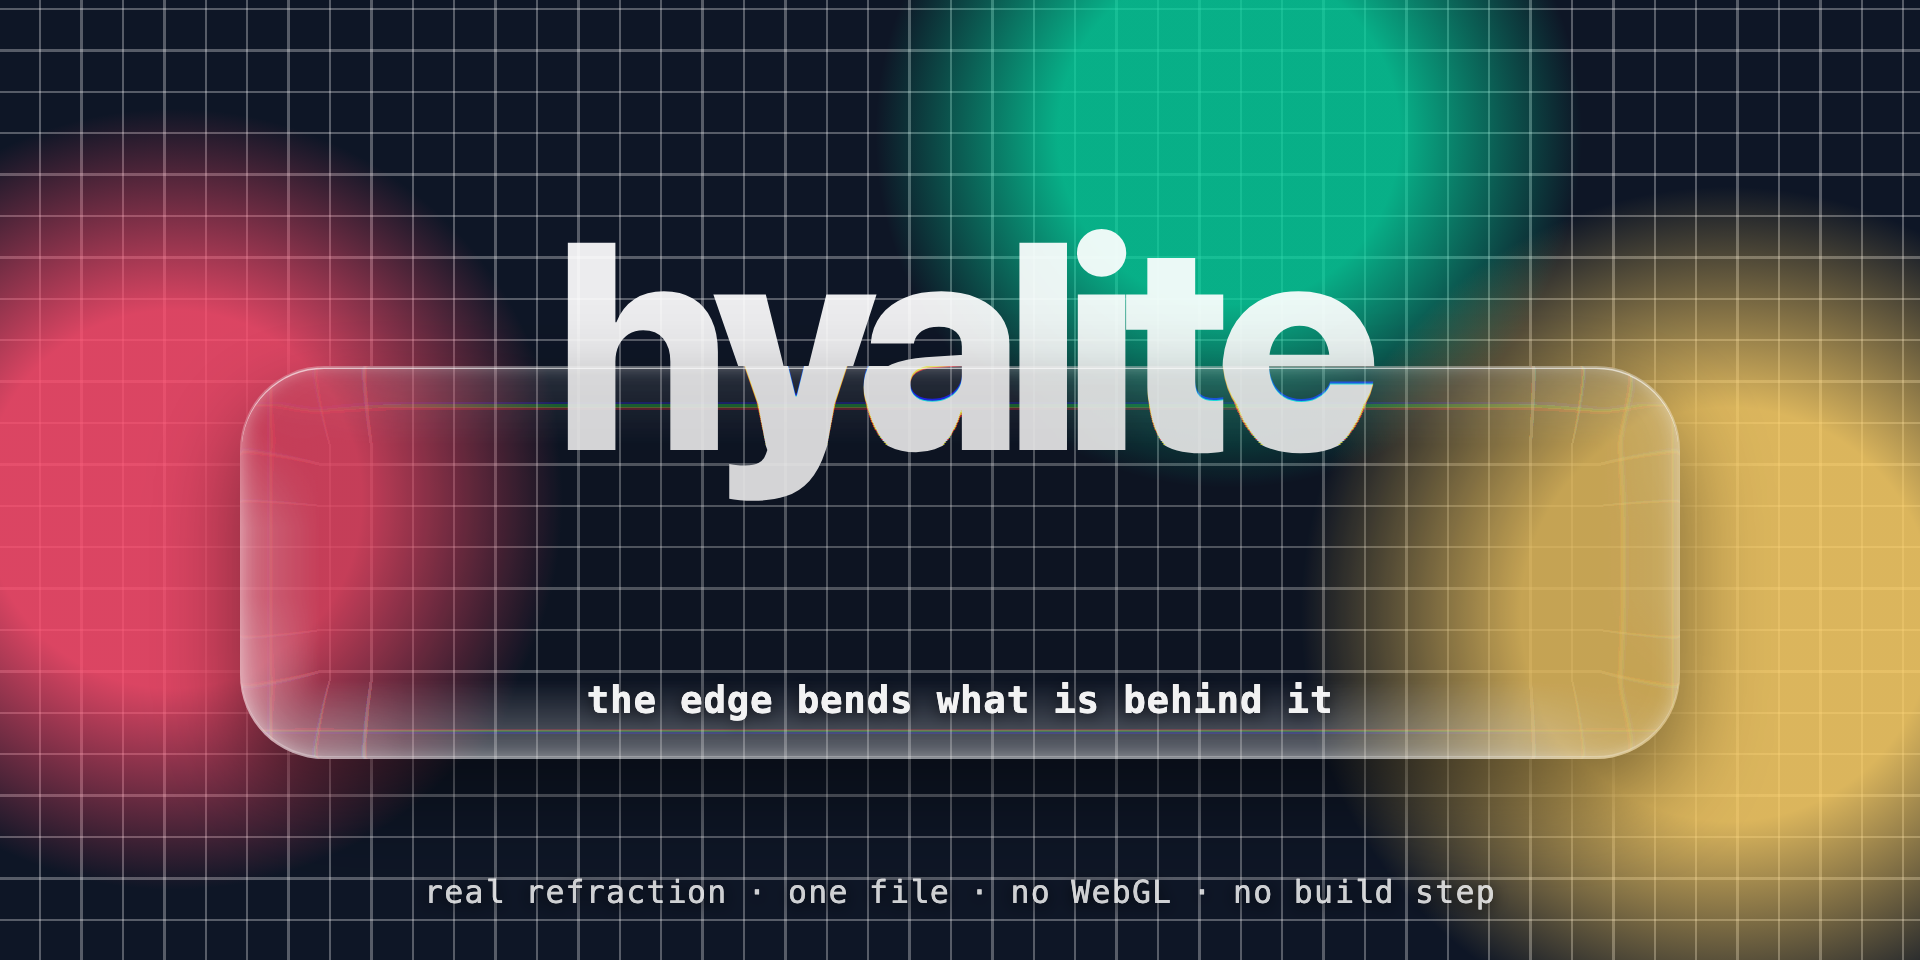
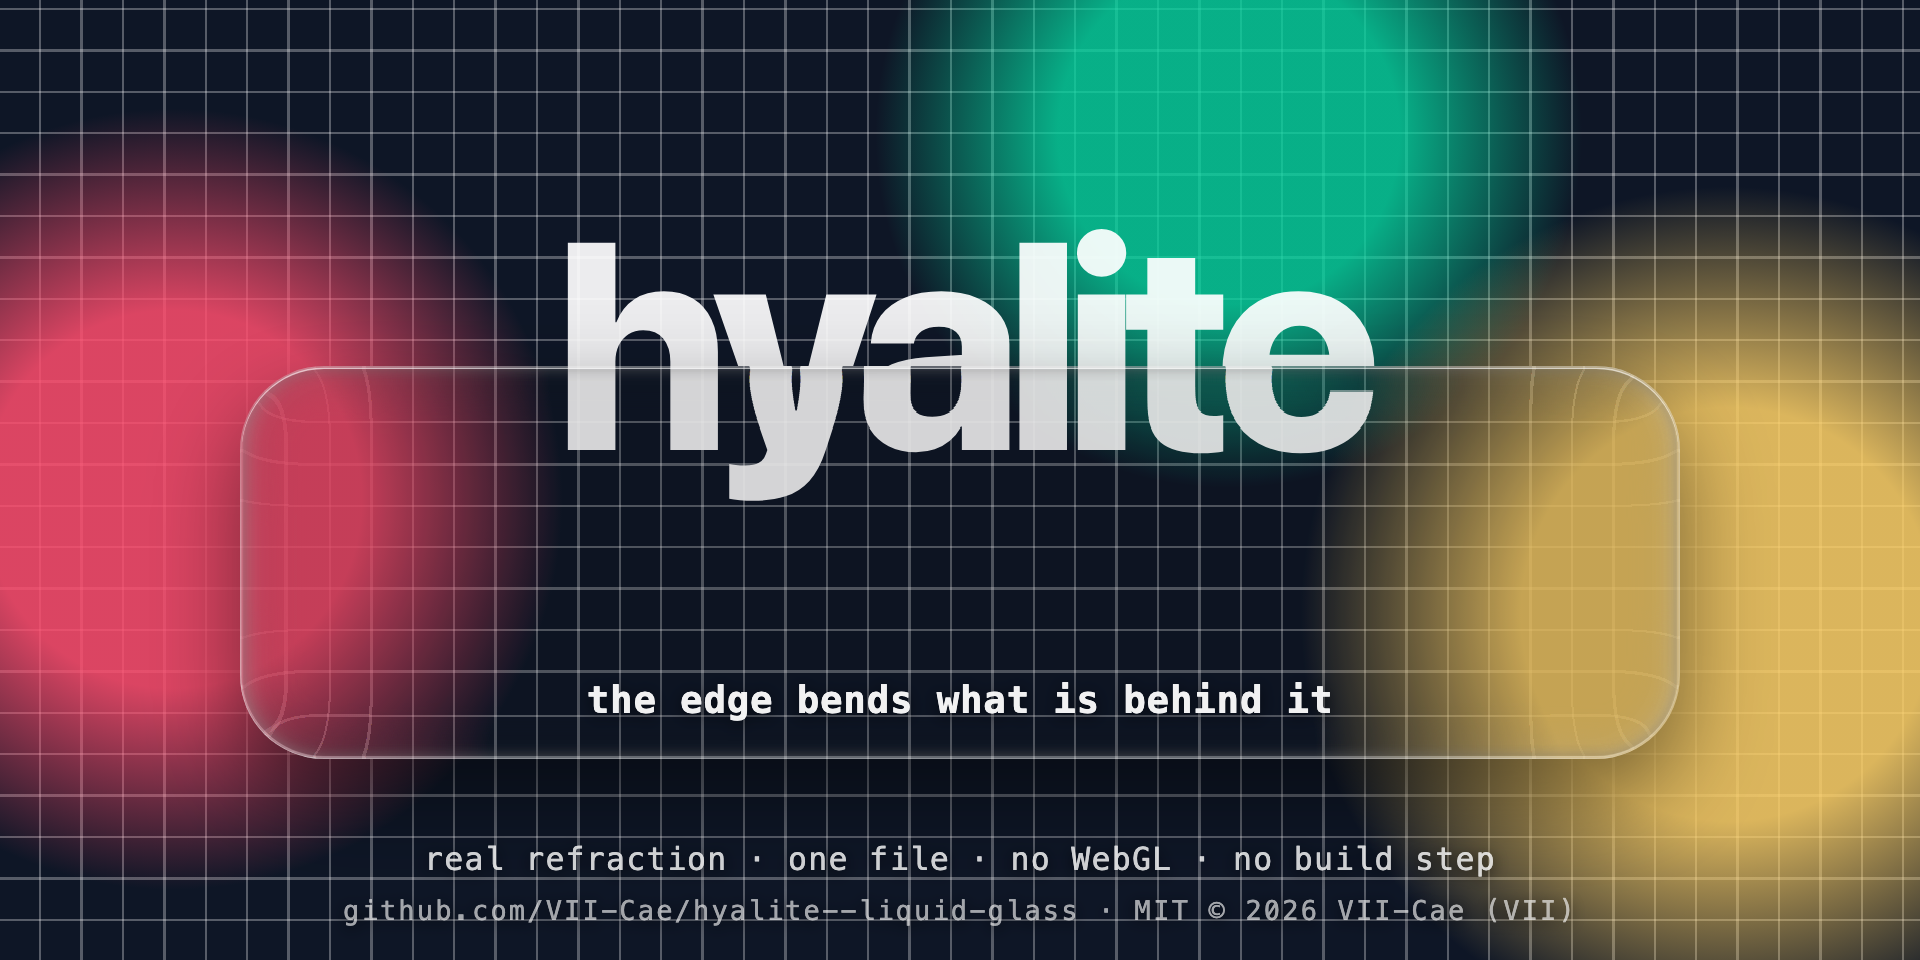
demo: the pages sign themselves, and the author is named
A recording of the playground was posted with no link back, so the demo
now carries its own way home: the repository as a masthead line over the
word, a signature engraved in the bottom edge of every card, and a pill
at the foot of the page (demo/mark.js, version read from the engine at
run time). The README image and the social card are re-shot with the
signature in them; both READMEs get a Sharing section.

The author is stamped as VII-Cae (VII) everywhere it was missing: the
LICENSE line, the library header, package.json (which had no author
field), and the README credits. No engine change.

diff --git a/demo/index.html b/demo/index.html
@@ -5,6 +5,7 @@
 <script src="legacy/hyalite-0.2.0.js?v=0.5.0"></script>
 <script src="legacy/hyalite-0.3.1.js?v=0.5.0"></script>
 <script src="../hyalite.js?v=0.5.0"></script>
+<script src="mark.js?v=0.5.0"></script>
 <style>
   html,body{margin:0;height:100%;overflow:hidden}
   body{
@@ -24,6 +25,10 @@
   body.photo{background-image:var(--photo)}
   .big{position:absolute;left:0;right:0;top:38%;text-align:center;font-size:min(150px,14vw);font-weight:800;letter-spacing:-.04em;
        color:rgba(255,255,255,.85);white-space:nowrap;pointer-events:none}
+  /* The mark: the repository as a masthead line over the word, part of the scene. It gets recorded
+     with the word and bent by any card dragged across it — a clip of this page carries its own way
+     back here. Above rather than below because the lower row of cards sits on the word's feet. */
+  .big small{position:absolute;left:0;right:0;top:1em;font:500 min(16px,1.2vw)/1 ui-monospace,Menlo,monospace;letter-spacing:.22em;opacity:.8}
   body.grid .big{color:rgba(255,255,255,.35)}
 
   /* ── the glass ─────────────────────────────────────────── */
@@ -53,6 +58,9 @@
     backdrop-filter:var(--hyalite, blur(3px));-webkit-backdrop-filter:var(--hyalite, blur(3px))}
   .glass h3{margin:0 0 4px;font-size:18px;font-weight:600}
   .glass p{margin:0;font-size:12.5px;line-height:1.5;opacity:.8}
+  /* the signature, engraved in the bottom padding of every card — a zoomed-in clip still has it */
+  .glass .sig{position:absolute;right:20px;bottom:7px;font:9.5px/1 ui-monospace,Menlo,monospace;font-style:normal;
+              letter-spacing:.06em;color:rgba(255,255,255,.42)}
 
   /* ── HUD ───────────────────────────────────────────────── */
   .hud{position:absolute;z-index:20;left:16px;top:14px;width:236px;display:flex;flex-direction:column;gap:6px;padding:11px 12px;border-radius:12px;
@@ -68,39 +76,46 @@
   .hud .hint{opacity:.6}
   .hud .warn{color:#ffb4a2}
   .hud input[type=file]{display:none}
+  /* laptops: the HUD would otherwise sit on the word's first letter and on the byline */
+  @media (max-width: 1180px) and (min-width: 761px){ .big{left:268px} }
   /* phones: stack everything, no absolute positioning */
   @media (max-width: 760px){
     body{overflow:auto;height:auto;min-height:100vh}
     .big{position:static;font-size:22vw;margin:12px 0 4px}
+    .big small{position:static;display:block;font-size:11px;margin-bottom:6px}
     .slot{position:relative!important;left:auto!important;top:auto!important;width:min(380px,92vw);margin:18px auto 34px;cursor:default}
     .hud{position:static;width:auto;margin:12px}
     .hud label{grid-template-columns:72px 1fr 42px}.hud input[type=range]{width:100%}
   }
 </style></head>
 <body>
-<div class="big">HYALITE</div>
+<div class="big">HYALITE<small>VII-Cae (VII) · github.com/VII-Cae/hyalite--liquid-glass</small></div>
 
 <div class="slot" id="s010" style="left:25%;top:13%">
   <div class="glass old v010" id="g010">
     <h3>0.1.0</h3><p>Refraction arrives: an SDF per element, Snell for the offsets, a no-fold cap. Shown at a 25px bevel over 10px of glass.</p>
+    <i class="sig">hyalite · VII-Cae (VII)</i>
   </div>
   <div class="label">0.1.0 · it bends</div>
 </div>
 <div class="slot" id="s020" style="left:60%;top:13%">
   <div class="glass old v020" id="g020">
     <h3>0.2.0</h3><p>Same picture, built cheaply: two-level cache, size buckets, the CSS corner rule. Adds a light direction — the only part of it you can see.</p>
+    <i class="sig">hyalite · VII-Cae (VII)</i>
   </div>
   <div class="label">0.2.0 · same, but cached</div>
 </div>
 <div class="slot" id="s031" style="left:25%;top:52%">
   <div class="glass old v031" id="g031">
     <h3>0.3.1</h3><p>The staircase goes: two displacement passes with a blur between them. Circles stop tearing, and the glass gets thicker: 19px.</p>
+    <i class="sig">hyalite · VII-Cae (VII)</i>
   </div>
   <div class="label">0.3.1 · no stairs</div>
 </div>
 <div class="slot" id="s040" style="left:60%;top:52%">
   <div class="glass lens" id="lens">
     <h3>0.5.0</h3><p>0.4.0 made the edge darken where it magnifies, fold, and return a specular line. 0.5.0 keeps it on: resize this card, or hit materialize — no frost, no white hairline.</p>
+    <i class="sig">hyalite · VII-Cae (VII)</i>
   </div>
   <div class="label">0.5.0 · shaded, and never off</div>
 </div>
@@ -121,6 +136,7 @@
     <button id="mat2">materialize</button><a class="btn" href="edge-lab.html">profile lab →</a><button id="grid">grid</button>
     <label class="file">load image<input id="file" type="file" accept="image/*"></label>
     <button id="reset">reset</button>
+    <a class="btn" href="https://github.com/VII-Cae/hyalite--liquid-glass" target="_blank" rel="noopener">github ↗</a>
   </div>
   <div class="hint">drag the cards · each shows what its release was shown at; the sliders drive 0.5.0 only</div>
   <div class="hint" id="sup"></div>

diff --git a/demo/edge-lab.html b/demo/edge-lab.html
@@ -2,6 +2,7 @@
 <html lang="zh-CN"><head><meta charset="utf-8"><meta name="viewport" content="width=device-width,initial-scale=1">
 <title>hyalite · 剖面台</title>
 <script src="../hyalite.js?v=0.5.0"></script>
+<script src="mark.js?v=0.5.0"></script>
 <style>
   html,body{margin:0;height:100%;overflow:hidden;background:#0b1016}
   body{font:13px/1.45 system-ui,-apple-system,"PingFang SC",sans-serif;color:#eee}
@@ -24,6 +25,9 @@
   .glass p{margin:0;font-size:12px;opacity:.75}
   .glass .bar{margin-top:14px;height:26px;border-radius:13px;background:rgba(255,255,255,.16)}
   .glass .bar i{display:block;height:100%;width:52%;border-radius:13px;background:rgba(255,255,255,.8)}
+  /* 落款：刻在每块玻璃的底边里，截去别的也截不掉它 */
+  .glass .sig{position:absolute;right:18px;bottom:6px;font:9.5px/1 ui-monospace,Menlo,monospace;font-style:normal;
+              letter-spacing:.06em;color:rgba(255,255,255,.42)}
 
   .dots{position:absolute;left:28%;top:52%;display:flex;gap:26px}
   .dot{position:relative;width:132px;height:132px;border-radius:50%;box-sizing:border-box;
@@ -73,11 +77,11 @@
 </style></head><body>
 
 <div id="stage">
-  <div class="slot"><div class="glass" id="g0"><h3>circle</h3><p>四分之一圆，最陡</p><div class="bar"><i></i></div></div>
+  <div class="slot"><div class="glass" id="g0"><h3>circle</h3><p>四分之一圆，最陡</p><div class="bar"><i></i></div><i class="sig">hyalite · VII-Cae (VII)</i></div>
     <div class="tag">circle</div></div>
-  <div class="slot"><div class="glass" id="g1"><h3>squircle</h3><p>接平板接得更缓</p><div class="bar"><i></i></div></div>
+  <div class="slot"><div class="glass" id="g1"><h3>squircle</h3><p>接平板接得更缓</p><div class="bar"><i></i></div><i class="sig">hyalite · VII-Cae (VII)</i></div>
     <div class="tag">squircle</div></div>
-  <div class="slot"><div class="glass" id="g2"><h3>lip</h3><p>外凸内凹，多一组明暗带</p><div class="bar"><i></i></div></div>
+  <div class="slot"><div class="glass" id="g2"><h3>lip</h3><p>外凸内凹，多一组明暗带</p><div class="bar"><i></i></div><i class="sig">hyalite · VII-Cae (VII)</i></div>
     <div class="tag">lip</div></div>
   <div class="dots">
     <div class="dot" id="d0"><b>1</b><i>circle</i></div>

diff --git a/demo/mark.js b/demo/mark.js
@@ -1,0 +1,35 @@
+/*!
+ * The maker's mark for the demo pages: one pill at the bottom, linking back to the repository.
+ * Glassmakers sign their pieces; a recording of these pages should carry the signature too, since
+ * a clip with no link is a clip nobody can trace. The text lives here once, the version is read
+ * from the engine, and each page adds a single script tag after hyalite.js.
+ */
+(() => {
+  const REPO = 'github.com/VII-Cae/hyalite--liquid-glass';
+  const version = (window.Hyalite && Hyalite.version) ? 'v' + Hyalite.version : '';
+  const css = `
+    #hyalite-mark{position:fixed;z-index:30;left:50%;bottom:12px;transform:translateX(-50%);
+      display:flex;flex-wrap:wrap;justify-content:center;gap:0 1em;box-sizing:border-box;max-width:calc(100vw - 24px);
+      padding:5px 12px;border-radius:999px;background:rgba(0,0,0,.62);border:1px solid rgba(255,255,255,.12);
+      font:11px/1.5 ui-monospace,Menlo,monospace;letter-spacing:.02em;color:rgba(255,255,255,.72);
+      text-decoration:none;white-space:nowrap}
+    #hyalite-mark:hover{color:#fff;border-color:rgba(255,255,255,.32)}
+    #hyalite-mark b{font-weight:600;color:#dfc174}
+    #hyalite-mark i{font-style:normal;opacity:.75}
+    /* phones scroll, so the pill joins the flow at the end of the page instead of floating over it */
+    @media (max-width:760px){#hyalite-mark{position:static;transform:none;width:max-content;margin:0 auto 18px;border-radius:14px}}`;
+  const mount = () => {
+    const style = document.createElement('style');
+    style.textContent = css;
+    const a = document.createElement('a');
+    a.id = 'hyalite-mark';
+    a.href = 'https://' + REPO;
+    a.target = '_blank';
+    a.rel = 'noopener';
+    a.innerHTML = `<span><b>hyalite</b> ${version}</span><span>${REPO}</span><i>MIT © 2026 VII-Cae (VII)</i>`;
+    document.head.appendChild(style);
+    document.body.appendChild(a);
+  };
+  if (document.readyState === 'loading') document.addEventListener('DOMContentLoaded', mount, { once: true });
+  else mount();
+})();

diff --git a/demo/og.html b/demo/og.html
@@ -36,15 +36,20 @@
          display:flex;align-items:flex-end;justify-content:center;padding-bottom:26px}
   .tag{font:600 25px/1 ui-monospace,Menlo,monospace;letter-spacing:.02em;
        color:rgba(255,255,255,.94);text-shadow:0 2px 10px rgba(0,0,0,.55)}
-  .foot{position:absolute;left:0;right:0;bottom:34px;text-align:center;
+  .foot{position:absolute;left:0;right:0;bottom:56px;text-align:center;
         font:500 21px/1 ui-monospace,Menlo,monospace;letter-spacing:.04em;
         color:rgba(255,255,255,.80);text-shadow:0 2px 10px rgba(0,0,0,.7)}
+  /* the way back, under the pitch: a shared image keeps its source */
+  .sig{position:absolute;left:0;right:0;bottom:24px;text-align:center;
+       font:500 18px/1 ui-monospace,Menlo,monospace;letter-spacing:.08em;
+       color:rgba(255,255,255,.62);text-shadow:0 2px 10px rgba(0,0,0,.7)}
   .warn{position:absolute;left:16px;top:12px;font:600 20px/1.3 ui-monospace,monospace;color:#ffb4a2}
 </style></head>
 <body>
 <h1 class="title">hyalite</h1>
 <div class="glass" id="glass"><span class="tag">the edge bends what is behind it</span></div>
 <div class="foot">real refraction · one file · no WebGL · no build step</div>
+<div class="sig">github.com/VII-Cae/hyalite--liquid-glass · MIT © 2026 VII-Cae (VII)</div>
 <script>
 (() => {
   if (!Hyalite.supported()) {

diff --git a/demo/card.html b/demo/card.html
@@ -33,6 +33,9 @@
   .glass p{margin:0;max-width:620px;font:400 23px/1.46 system-ui,-apple-system,sans-serif;text-align:left;
            color:rgba(255,255,255,.9);text-shadow:0 2px 12px rgba(0,0,0,.5)}
   .glass code{font:500 .92em/1 ui-monospace,Menlo,monospace;letter-spacing:-.01em}
+  /* the signature, engraved in the card's lower right: the README image travels with its source */
+  .glass .sig{position:absolute;right:44px;bottom:22px;font:500 16px/1 ui-monospace,Menlo,monospace;font-style:normal;
+              letter-spacing:.08em;color:rgba(255,255,255,.66);text-shadow:0 1px 8px rgba(0,0,0,.5)}
   .warn{position:absolute;left:16px;top:12px;font:600 20px/1.3 ui-monospace,monospace;color:#ffb4a2}
 </style></head>
 <body>
@@ -41,6 +44,7 @@
 <div class="glass" id="glass">
   <h2>Refraction, not diffusion</h2>
   <p>Rounded-rect SDF → Snell’s law → one <code>feDisplacementMap</code>. The edge magnifies the backdrop, shades where it magnifies, and returns a specular line.</p>
+  <i class="sig">VII-Cae (VII) · github.com/VII-Cae/hyalite--liquid-glass</i>
 </div>
 <script>
 (() => {

diff --git a/hyalite.js b/hyalite.js
@@ -1,6 +1,6 @@
 /*!
  * hyalite v0.5.0 — real refraction "liquid glass" for the web.
- * https://github.com/VII-Cae/hyalite--liquid-glass · MIT © 2026 VII-Cae
+ * https://github.com/VII-Cae/hyalite--liquid-glass · MIT © 2026 VII-Cae (VII)
  *
  * How it works
  *   The element is treated as a slab of glass with a bevelled edge. For its exact size and corner

diff --git a/README.md b/README.md
@@ -144,10 +144,14 @@ Tested September 2026.
 - For a shape morph (a pill growing into a card): set `--hyalite: blur(<your blur>px)` yourself while the shape moves, then `attach` with `materialize` once it lands. An attached element that changes size keeps its glass (stretched, then rebuilt), which is right for text that grows a line at a time; a pill-to-card morph would rebuild every 90 ms and look elastic, so attach after it lands.
 - The map is a `data:` URL: a strict CSP needs `img-src data:`.
 
+## Sharing
+
+The demo pages carry their own address — over the big word, engraved in the bottom edge of every card, and in the pill at the foot of the page — so a recording of them still leads back here. If you post one, leave a mark in frame, or put the repository and the author — VII-Cae (VII) — in the caption. The code is MIT: use it, ship it, keep the notice.
+
 ## Credits and prior art
 
 Apple’s Liquid Glass (WWDC25) for the idea that glass should *bend* light rather than scatter it. Rounded-rect SDF → refraction → displacement map → `feDisplacementMap` is a route several projects have taken; [kube.io](https://kube.io/blog/liquid-glass-css-svg/) has the clearest physics write-up. Hyalite’s implementation-specific choices are the shaded edge derived from the field rather than painted on, the fold as an option, the larger-radius direction field, per-corner radii, maps built for the real element size, the settle/materialize behaviour, the private ramp clone, and a small watch/attach API that survives real pages.
 
-Engineering by Claude Fable 5.1 (0.1.0, and 0.3.0: the two-pass split that hides Chromium’s nearest-neighbour staircase, `smooth`) and Claude Opus 5 (0.2.0: the two-level cache and size buckets, the CSS overlap rule for radii, quarter-symmetry, `light`, `force`, and a self-check page that reads values back instead of trusting that nothing threw; 0.3.1: the direction-field cap that unbroke circles; 0.4.0: the shaded edge — the signed profile in the map's blue channel and the multiply pass that applies it — the selectable bevel profiles, the optional fold, the CSS rim, and the split between what scales and what does not; 0.5.0: the filter region that follows the element and the resize path that never drops the glass, found by recording a streaming chat frame by frame) — both Anthropic, both pair-programmed with VII-Cae, who set the direction, tested every build by eye and tuned every parameter.
+Engineering by Claude Fable 5.1 (0.1.0, and 0.3.0: the two-pass split that hides Chromium’s nearest-neighbour staircase, `smooth`) and Claude Opus 5 (0.2.0: the two-level cache and size buckets, the CSS overlap rule for radii, quarter-symmetry, `light`, `force`, and a self-check page that reads values back instead of trusting that nothing threw; 0.3.1: the direction-field cap that unbroke circles; 0.4.0: the shaded edge — the signed profile in the map's blue channel and the multiply pass that applies it — the selectable bevel profiles, the optional fold, the CSS rim, and the split between what scales and what does not; 0.5.0: the filter region that follows the element and the resize path that never drops the glass, found by recording a streaming chat frame by frame) — both Anthropic, both pair-programmed with VII-Cae (VII), who set the direction, tested every build by eye and tuned every parameter.
 
-MIT © 2026 VII-Cae
+MIT © 2026 VII-Cae (VII)

diff --git a/README.zh-CN.md b/README.zh-CN.md
@@ -140,10 +140,14 @@ Hyalite.detach(card);
 - 形状变形的元素（药丸长成卡片）：变形期间自己把 `--hyalite` 写成 `blur(你的模糊px)`，落定后再带 `materialize` 挂上。已挂上的元素变尺寸时玻璃不掉（先拉伸、再重算），一行一行长的文字正合适；药丸变卡片那种会每 90 ms 重算一次、看着像橡皮，所以落定再挂。
 - 贴图是 `data:` URL，严格的 CSP 需要 `img-src data:`。
 
+## 转载
+
+demo 页面自带落款——大字上方的仓库地址、每块玻璃底边刻着的签名、页脚的那枚胶囊——所以录屏也带着回来的路。转发录屏时，请让其中一处留在画面里，或者在文案里写上仓库链接和作者 VII-Cae（VII）。代码是 MIT：随便用、随便发，把声明留着就行。
+
 ## 致谢与先行者
 
 Apple 的 Liquid Glass（WWDC25）给了「玻璃该弯光而不是散射光」这个想法。圆角矩形 SDF → 折射 → 位移贴图 → `feDisplacementMap` 这条路已有不少项目走过，[kube.io](https://kube.io/blog/liquid-glass-css-svg/) 的物理推导最清楚。Hyalite 自己的实现取舍是：从位移场推出来（而不是画上去）的边缘明暗、把折叠变成可选、大圆方向场、四角各自半径、按真实元素尺寸建图、settle / materialize 行为、私有的渐入克隆，以及一套能在真实页面上活下来的 watch/attach API。
 
-工程实现：Claude Fable 5.1（0.1.0，以及 0.3.0：藏住 Chromium 最近邻阶梯的两段位移、`smooth`）与 Claude Opus 5（0.2.0：两级缓存与尺寸分桶、圆角的 CSS 相邻角规则、四分之一对称、`light`、`force`，以及一个把值真读回来核对的自检页；0.3.1：把圆形修好的方向场封顶；0.4.0：边缘明暗 —— 贴图蓝通道里那条带符号的剖面和应用它的乘法层 —— 可选的倒角剖面、可选的折叠、CSS 描边，以及「什么该按比例、什么必须按像素」这条分界；0.5.0：跟着元素走的滤镜区域，和一条永不熄灭玻璃的变尺寸路径——靠把流式聊天逐帧录下来才找到的），都来自 Anthropic，都与 VII-Cae 结对完成；VII-Cae 负责方向、每一版的目测验收和每一个参数的手调。
+工程实现：Claude Fable 5.1（0.1.0，以及 0.3.0：藏住 Chromium 最近邻阶梯的两段位移、`smooth`）与 Claude Opus 5（0.2.0：两级缓存与尺寸分桶、圆角的 CSS 相邻角规则、四分之一对称、`light`、`force`，以及一个把值真读回来核对的自检页；0.3.1：把圆形修好的方向场封顶；0.4.0：边缘明暗 —— 贴图蓝通道里那条带符号的剖面和应用它的乘法层 —— 可选的倒角剖面、可选的折叠、CSS 描边，以及「什么该按比例、什么必须按像素」这条分界；0.5.0：跟着元素走的滤镜区域，和一条永不熄灭玻璃的变尺寸路径——靠把流式聊天逐帧录下来才找到的），都来自 Anthropic，都与 VII-Cae（VII）结对完成；VII-Cae 负责方向、每一版的目测验收和每一个参数的手调。
 
-MIT © 2026 VII-Cae
+MIT © 2026 VII-Cae (VII)
